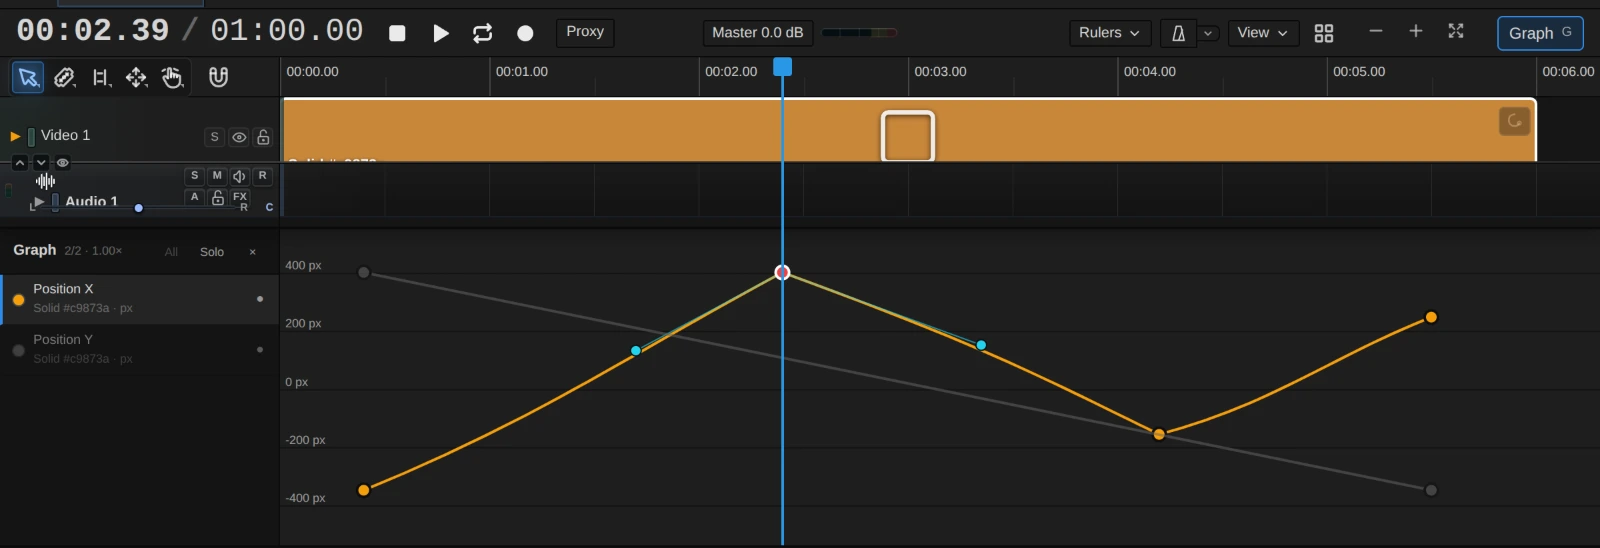
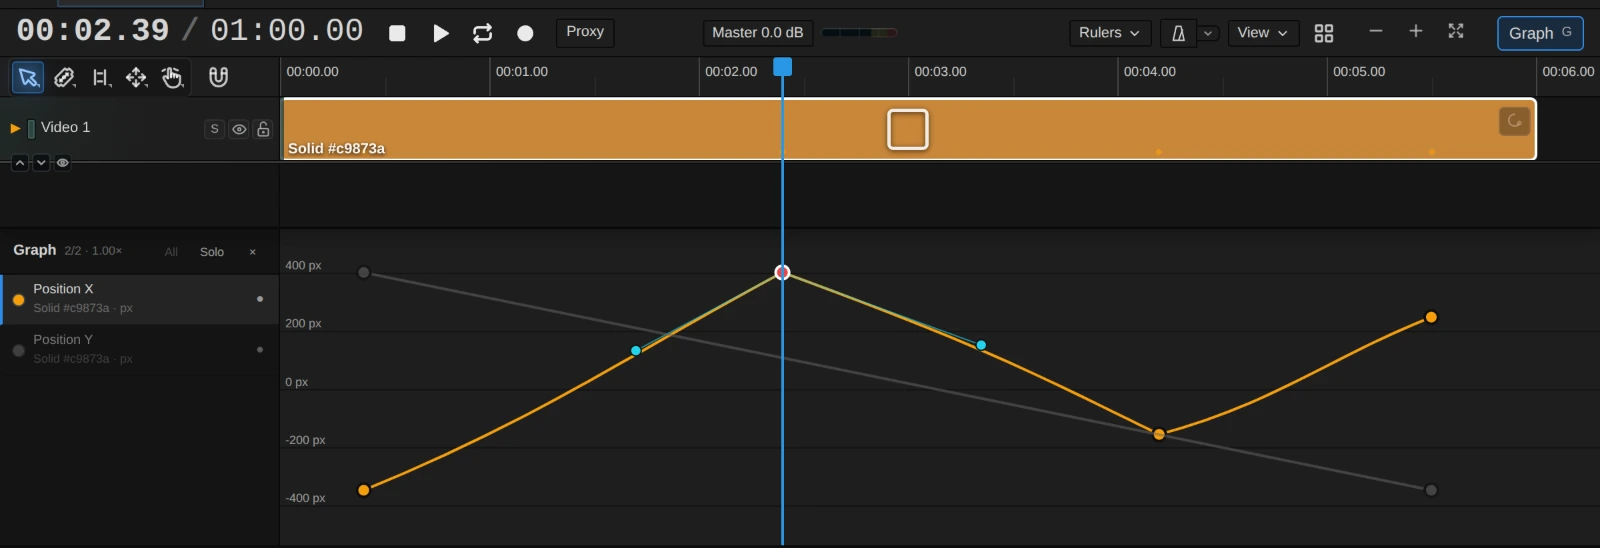
docs(keyframes): Graph-mode picture with whole track rows and a lightbox, Graph button and G key named (tests: docsMediaRecipes.test.ts)
Claude-Session: https://claude.ai/code/session_01SPCZUmow7FhgFsrvju87Zb

Changed region(s): [[0.0, 0.1861, 0.9688, 0.4033], [0.0, 0.2172, 0.0625, 0.2792]]

diff --git a/docs/Features/Keyframes.md b/docs/Features/Keyframes.md
@@ -1,6 +1,6 @@
 # Keyframes
 
-Keyframes animate a clip's properties over time. Click the diamond beside a value in Properties to set a key at the playhead, move the playhead and change the value, and the property moves between the keys; shape the motion in **Graph** mode under the timeline. Where the clips sit: [Timeline](./Timeline.md).
+Keyframes animate a clip's properties over time. Click the diamond beside a value in Properties to set a key at the playhead, move the playhead and change the value, and the property moves between the keys; shape the motion in **Graph** mode: the **Graph** button at the right of the timeline toolbar, or `G`, switches the timeline to it. Where the clips sit: [Timeline](./Timeline.md).
 
 Keyframes work on transform values, speed, numeric effect parameters, color, masks, text bounds, camera and light settings, custom-node parameters, vector-animation state and inputs, and numeric motion-shape properties.
 
@@ -191,11 +191,13 @@ When recording is enabled:
 ### Curve Editor
 
 <figure class="docs-shot">
-  <img src="./assets/keyframes/graph-mode.webp" alt="The timeline in Graph mode below a solid clip: the Graph list on the left holds Position X (active) and Position Y; on the right the orange Position X curve runs through four keys, and the selected key at the playhead shows its two cyan Bezier handles. The grey Position Y curve runs behind it." />
-  <figcaption>Graph mode: the <strong>Graph list</strong> picks the property, the orange <strong>curve</strong> shows its values over time, the <strong>selected key</strong> (red) shows its cyan <strong>Bezier handles</strong>, and inactive properties stay grey behind it.</figcaption>
+
+![The timeline in Graph mode below a solid clip: the Graph list on the left holds Position X (active) and Position Y; on the right the orange Position X curve runs through four keys, and the selected key at the playhead shows its two cyan Bezier handles. The grey Position Y curve runs behind it.](./assets/keyframes/graph-mode.webp)
+
+  <figcaption>Graph mode: the <strong>Graph list</strong> picks the property, the orange <strong>curve</strong> shows its values over time, the <strong>selected key</strong> (red) shows its cyan <strong>Bezier handles</strong>, and inactive properties stay grey behind it. The tracks above shrink to a thin band; the square in the clip is the solid's type icon.</figcaption>
 </figure>
 
-- Double-click a property row or keyframe diamond to open Graph mode.
+- The **Graph** button at the right of the timeline toolbar, or `G`, switches the timeline to Graph mode; double-clicking a property row or keyframe diamond opens it too.
 - Graph mode shows the selected clip's animated numeric properties as selectable curve series; only one property is expanded in the track header at a time.
 - The active curve renders a value axis that auto-scales to its current keyframes.
 - Selected keyframes expose Bezier handles.
